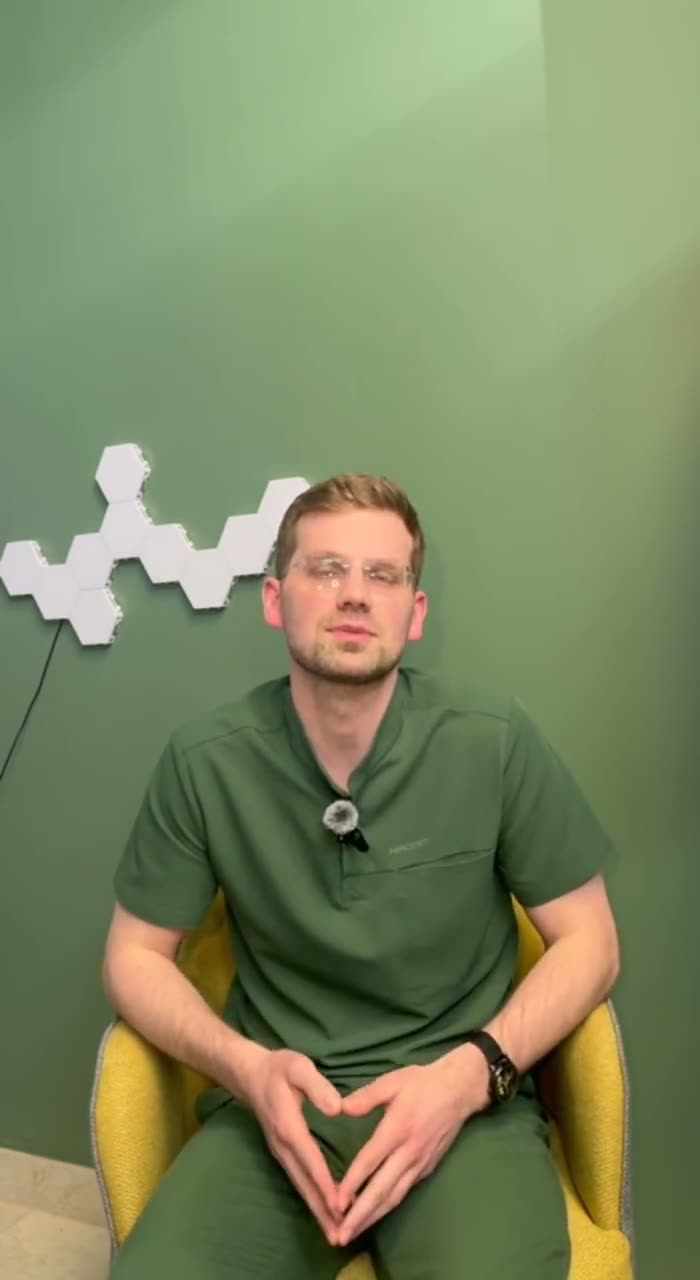
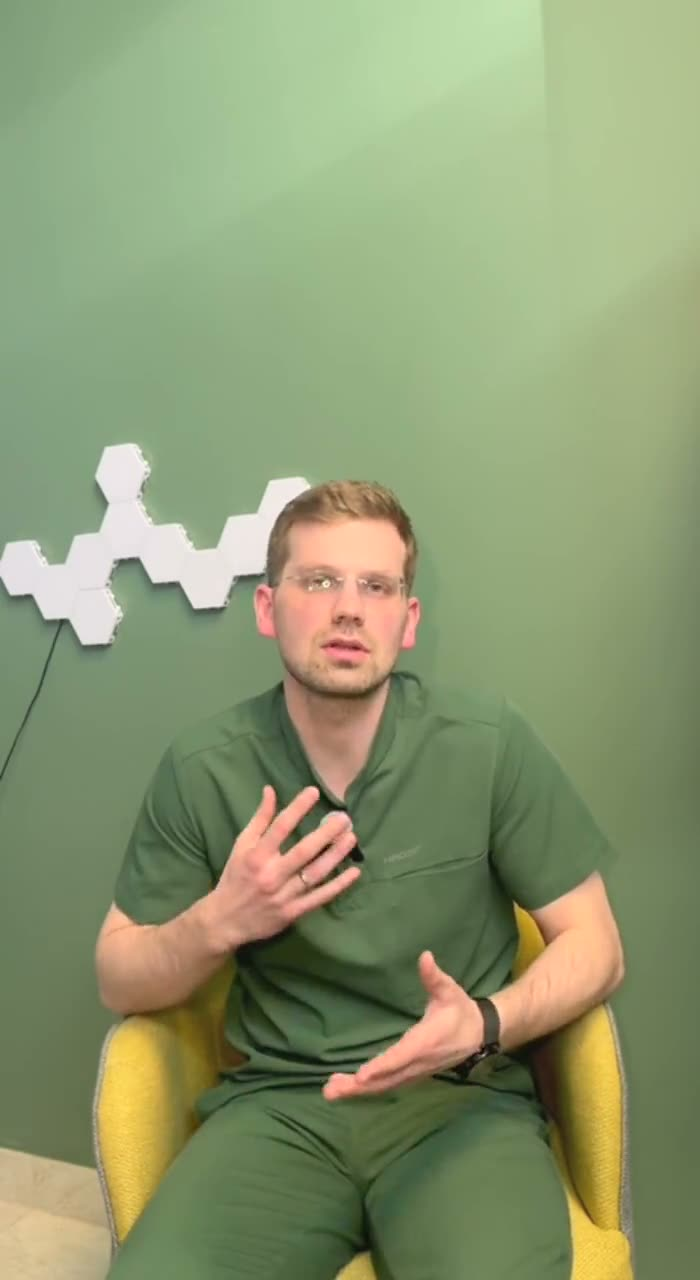
Постер Маковского: кадр 30.9s, выбор Ильи (зеркало)

Changed region(s): [[0.12, 0.3438, 0.9, 1.0]]

diff --git a/vrachi/makovsky/index.html b/vrachi/makovsky/index.html
@@ -54,7 +54,7 @@
 
   <section class="block"><h2>Имплантация: с чем к нему приходят</h2><div class="prose"><p>Второе большое направление Александра Александровича — имплантация, в том числе случаи, которые в других клиниках называют «безнадёжными». Работает по современным международным протоколам лечения:</p><ul><li><strong><a href="../../lechenie-zubov-vo-sne/">имплантация во сне</a></strong> — под седацией или в наркозе, в собственной операционной клиники под контролем анестезиолога;</li><li><strong>имплантация в сложных случаях</strong> — выраженная атрофия кости, повторная имплантация после неудачной, сопутствующие заболевания;</li><li><strong>скуловые имплантаты</strong> — фиксируются в скуловой кости и позволяют восстановить зубы верхней челюсти даже при сильной убыли собственной костной ткани;</li><li><strong>крыловидные имплантаты</strong> — опора в плотной кости за бугром верхней челюсти: во многих случаях позволяют обойтись без костной пластики и синус-лифтинга;</li><li><strong>циркониевые имплантаты</strong> — безметалловое решение для пациентов с аллергией на металлы и повышенными требованиями к эстетике;</li><li><strong>индивидуальные имплантаты</strong> — изготавливаются по данным КТ под анатомию конкретного пациента, когда стандартные системы не подходят.</li></ul><p>Начать стоит с консультации: осмотр, бесплатное КТ — и врач честно скажет, какой вариант подходит именно вам. Цена фиксируется в договоре.</p></div></section>
 
-  <section class="block doc-video"><h2>Видеоприветствие от врача</h2><video controls preload="none" playsinline poster="../../assets/doctors/video/makovsky-poster.jpg?v=3" src="../../assets/doctors/video/makovsky.mp4"></video><div class="cap">Маковский Александр Александрович — о себе и своём подходе к лечению</div></section>
+  <section class="block doc-video"><h2>Видеоприветствие от врача</h2><video controls preload="none" playsinline poster="../../assets/doctors/video/makovsky-poster.jpg?v=4" src="../../assets/doctors/video/makovsky.mp4"></video><div class="cap">Маковский Александр Александрович — о себе и своём подходе к лечению</div></section>
 
   <section class="block"><h2>Отзывы пациентов</h2><div class="prose"><div class="doc-quote"><p>«Это доктор с золотыми руками… тем удивительнее, что только в его кресле у меня полностью отсутствует страх»</p><div class="src">ПроДокторов, июнь 2026 (отзыв проверен площадкой)</div></div><div class="doc-quote"><p>«Случай у меня был не простой, почти все зубы лежали в дёснах под углом 45 градусов… Александр прооперировал отлично»</p><div class="src">ПроДокторов, июнь 2026 (отзыв проверен площадкой)</div></div><p style="font-family:var(--mono);font-size:12.5px;color:var(--ink-50)">Профили врача на площадках: ПроДокторов — 4,8 из 5 (11 отзывов, документы проверены), «Красота и медицина» — 5,0 (9 отзывов). Данные на июль 2026.</p></div></section>
 